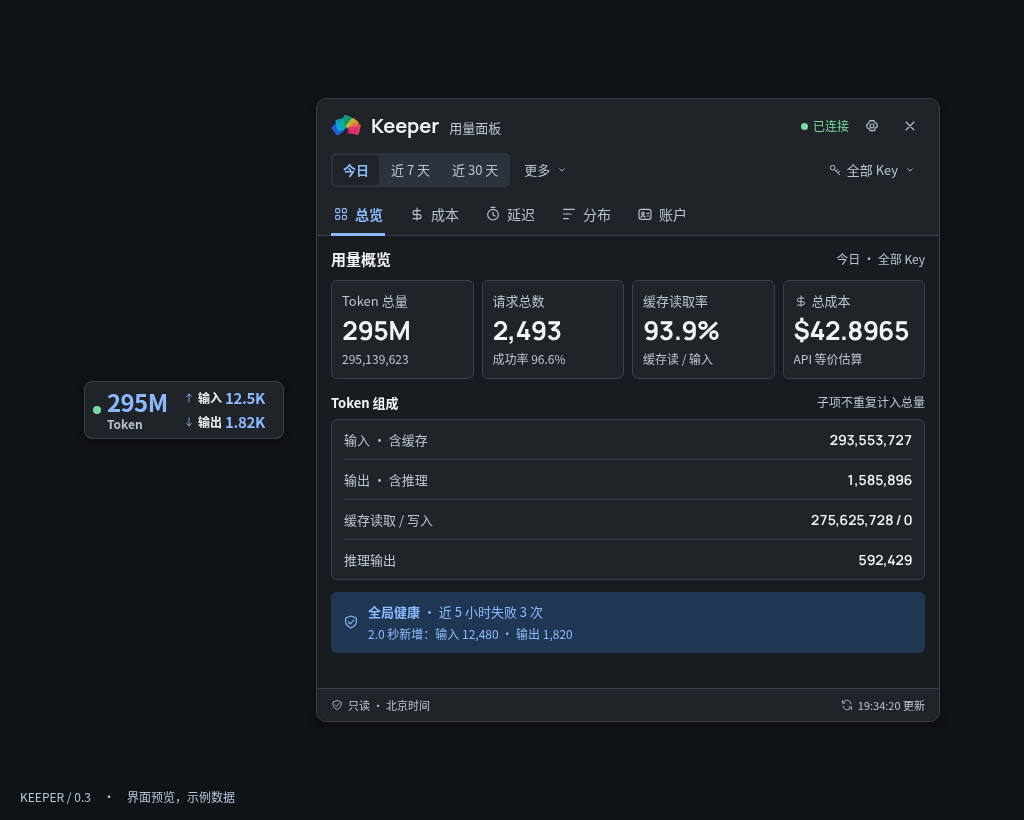
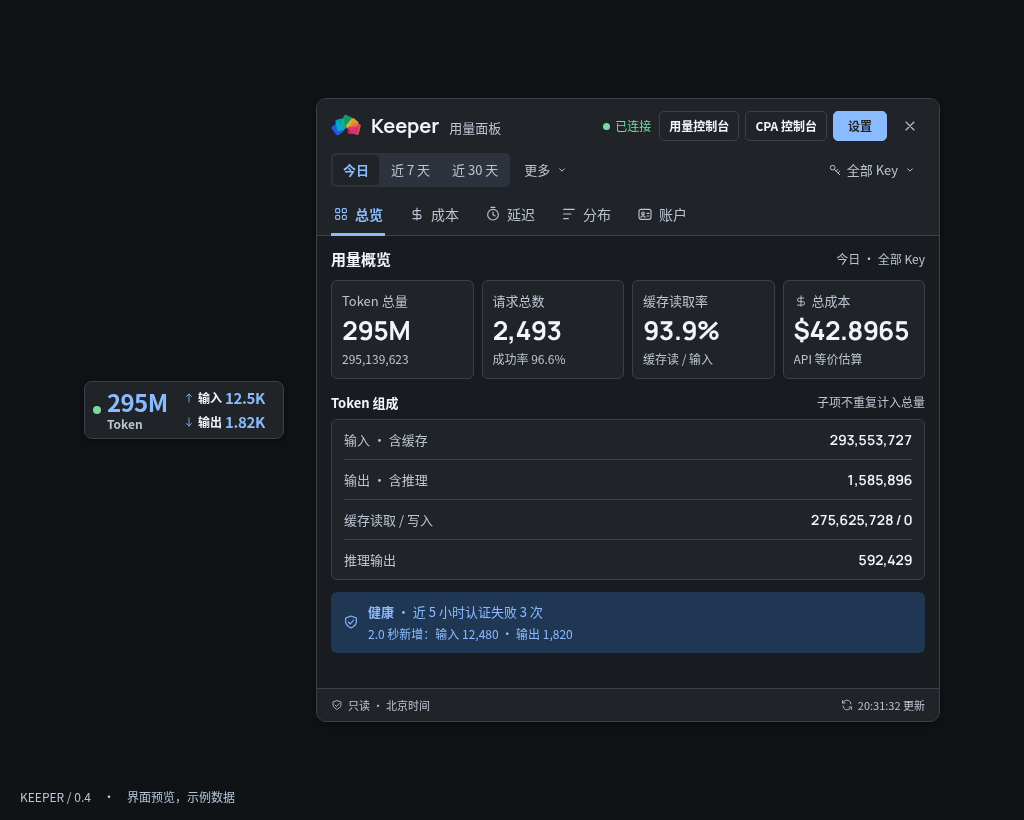
新增用量与CPA控制台入口并强化设置按钮

Changed region(s): [[0.5938, 0.122, 0.875, 0.1829], [0.3438, 0.7317, 0.5, 0.7622]]

diff --git a/src/main.js b/src/main.js
@@ -137,7 +137,7 @@ function widget() {
   return `<div class="widget-wrap"><div class="widget" id="widget" role="button" tabindex="0" aria-label="Keeper 用量，悬停或点击查看详情，拖动移动"><span class="widget-health neutral" id="health" role="img" aria-label="未连接" title="未连接"><i class="dot"></i></span><div class="widget-total"><strong class="widget-number num" id="today-total">—</strong><span class="widget-unit">Token</span></div><div class="widget-flows"><div class="flow-row">${icon("output")}<span>输入</span><strong class="num" id="delta-input">—</strong></div><div class="flow-row">${icon("input")}<span>输出</span><strong class="num" id="delta-output">—</strong></div></div></div></div>`;
 }
 function panel() {
-  return `<div class="window-pad"><main class="panel" aria-label="Keeper 用量详情"><header class="panel-header"><div class="brand-row"><div class="logo">${icon("logo")}</div><div class="brand-title">Keeper <span class="brand-subtitle">用量面板</span></div><div class="spacer"></div><div id="connection" class="connection neutral"><i class="dot"></i>未连接</div>${button("settings", "连接设置")}${button("close-detail", "收起面板")}</div><div id="filters"></div><nav class="tabs" aria-label="指标分类">${availableTabs()
+  return `<div class="window-pad"><main class="panel" aria-label="Keeper 用量详情"><header class="panel-header"><div class="brand-row"><div class="logo">${icon("logo")}</div><div class="brand-title">Keeper <span class="brand-subtitle">用量面板</span></div><div class="spacer"></div><div id="connection" class="connection neutral"><i class="dot"></i>未连接</div><div class="header-actions"><button class="console-button" data-console="usage" title="在默认浏览器打开配置的 Keeper 地址">用量控制台</button><button class="console-button" data-console="cpa" id="cpa-console" disabled title="连接后获取 CPA 地址">CPA 控制台</button><button class="settings-button" data-action="settings">设置</button></div>${button("close-detail", "收起面板")}</div><div id="filters"></div><nav class="tabs" aria-label="指标分类">${availableTabs()
     .map(
       ([id, label, i]) =>
         `<button class="tab ${state.tab === id ? "active" : ""}" data-tab="${id}">${icon(i)}${label}</button>`,
@@ -658,6 +658,23 @@ root.innerHTML = preview
 document.addEventListener("click", async (event) => {
   const b = event.target.closest("button");
   if (!b) return;
+  if (b.dataset.console) {
+    b.disabled = true;
+    try {
+      await api.call("open_console", { target: b.dataset.console });
+      $("#console-error")?.remove();
+    } catch (error) {
+      $("#console-error")?.remove();
+      $("#content").insertAdjacentHTML(
+        "afterbegin",
+        `<div class="note" id="console-error" role="alert">${e(String(error))}</div>`,
+      );
+    } finally {
+      b.disabled =
+        b.dataset.console === "cpa" && state.access?.role !== "admin";
+    }
+    return;
+  }
   if (b.dataset.action) {
     const name = b.dataset.action;
     if (name === "refresh") {
@@ -876,6 +893,13 @@ function applyAccess(access) {
           `<button class="tab ${state.tab === id ? "active" : ""}" data-tab="${id}">${icon(i)}${label}</button>`,
       )
       .join("");
+  const cpa = $("#cpa-console");
+  if (cpa) {
+    cpa.disabled = access.role !== "admin";
+    cpa.title = cpa.disabled
+      ? "Keeper 仅向管理员提供 CPA 控制台地址"
+      : "从 Keeper 获取地址，在默认浏览器打开 CPA 控制台";
+  }
   renderFilters();
   if (changed && $("#content")) {
     $("#content").innerHTML = "";
@@ -916,6 +940,7 @@ await api.on("configured", async ({ settings: s, revision }) => {
   if (windowName !== "settings") {
     if ($("#content")) $("#content").innerHTML = "";
     if ($(".tabs")) $(".tabs").innerHTML = "";
+    if ($("#cpa-console")) $("#cpa-console").disabled = true;
     try {
       await refreshAccess();
     } catch (error) {

diff --git a/src/style.css b/src/style.css
@@ -1111,3 +1111,49 @@ summary::-webkit-details-marker {
   font: inherit;
   font-size: 13px;
 }
+
+.header-actions {
+  display: flex;
+  align-items: center;
+  gap: 6px;
+  flex-shrink: 0;
+}
+.console-button,
+.settings-button {
+  height: 30px;
+  padding: 0 9px;
+  border: 1px solid var(--line);
+  border-radius: 5px;
+  white-space: nowrap;
+  font-size: 12px;
+  font-weight: 600;
+}
+.console-button {
+  color: var(--ink);
+  background: var(--paper);
+}
+.console-button:hover:not(:disabled) {
+  border-color: var(--accent);
+  color: var(--accent);
+  background: var(--accent-soft);
+}
+.console-button:disabled {
+  opacity: 0.5;
+}
+.settings-button {
+  min-width: 54px;
+  background: var(--accent);
+  border-color: var(--accent);
+  color: var(--paper);
+}
+.settings-button:hover {
+  filter: brightness(1.12);
+}
+@media (max-width: 600px) {
+  .brand-subtitle {
+    display: none;
+  }
+  .panel:not(.settings) .brand-row {
+    gap: 6px;
+  }
+}

diff --git a/src/preview.js b/src/preview.js
@@ -115,6 +115,7 @@ export function createPreview(search) {
     },
     call: async (command, args = {}) => {
       window.__previewCalls.push({ command, args });
+      if (command === "open_console") return;
       if (command === "get_access") return structuredClone(access);
       if (command === "set_scope") {
         if (viewer) throw "sk 登录不能切换 Key owner";

diff --git a/crates/keeper-core/src/lib.rs b/crates/keeper-core/src/lib.rs
@@ -123,6 +123,47 @@ pub fn validate_endpoint(endpoint: &str, allow_http: bool) -> Result<Url, String
     url.set_path(&format!("{}/", url.path().trim_end_matches('/')));
     Ok(url)
 }
+pub fn browser_url(value: &str) -> Result<Url, String> {
+    let url = Url::parse(value).map_err(|_| "控制台地址无效")?;
+    if !matches!(url.scheme(), "http" | "https")
+        || url.host_str().is_none()
+        || !url.username().is_empty()
+        || url.password().is_some()
+    {
+        return Err("控制台链接仅支持不含登录凭据的 HTTP / HTTPS 地址".into());
+    }
+    Ok(url)
+}
+// Same public URL and management.html convention as Keeper's UsagePage.
+pub fn cpa_console_url(base: &Url, configured: Option<&str>) -> Result<String, String> {
+    let origin = base.origin().ascii_serialization();
+    let raw = configured.unwrap_or(&origin).trim();
+    if raw.is_empty() {
+        return Err("Keeper 未提供 CPA 控制台地址".into());
+    }
+    let prepared = if raw.starts_with('/') {
+        Url::parse(&origin)
+            .unwrap()
+            .join(raw)
+            .map_err(|_| "CPA 地址无效")?
+            .to_string()
+    } else if raw.contains("://") {
+        raw.to_string()
+    } else {
+        format!("{}://{}", base.scheme(), raw)
+    };
+    let mut url = browser_url(&prepared)?;
+    if !url.path().ends_with("/management.html") {
+        url.set_path(&format!(
+            "{}/management.html",
+            url.path().trim_end_matches('/')
+        ));
+        url.set_query(None);
+        url.set_fragment(None);
+    }
+    Ok(url.to_string())
+}
+
 #[derive(Default, Clone, Copy, PartialEq, Eq, Deserialize, Serialize)]
 #[serde(rename_all = "snake_case")]
 pub enum AuthMode {
@@ -295,6 +336,13 @@ impl Keeper {
     pub async fn access(&self) -> Result<Value, String> {
         self.login().await?;
         Ok(self.session.lock().await.clone())
+    }
+    pub async fn console_url(&self) -> Result<String, String> {
+        if self.is_viewer() {
+            return Err("Keeper 仅向管理员提供 CPA 控制台地址".into());
+        }
+        let status = self.cached("status", &[], 60).await?;
+        cpa_console_url(&self.base, status["cpa_public_url"].as_str())
     }
     pub async fn logout(&self) -> Result<(), String> {
         self.request("auth/logout", &[], Some(json!({}))).await?;

diff --git a/crates/keeper-core/tests/client.rs b/crates/keeper-core/tests/client.rs
@@ -407,3 +407,52 @@ async fn sk_midnight_bridge_uses_own_activity_totals() {
         requests[5].contains("key-activity?range=custom&unit=day&start=2026-08-26&end=2026-08-26")
     );
 }
+
+#[test]
+fn cpa_console_matches_keeper_public_url_rules_and_rejects_unsafe_links() {
+    let base = validate_endpoint("https://keeper.example/usage", false).unwrap();
+    for (raw, expected) in [
+        (None, "https://keeper.example/management.html"),
+        (
+            Some("https://cpa.example"),
+            "https://cpa.example/management.html",
+        ),
+        (Some("/cpa/"), "https://keeper.example/cpa/management.html"),
+        (
+            Some("cpa.example:8317/"),
+            "https://cpa.example:8317/management.html",
+        ),
+        (
+            Some("https://cpa.example/cpa/management.html"),
+            "https://cpa.example/cpa/management.html",
+        ),
+    ] {
+        assert_eq!(keeper_core::cpa_console_url(&base, raw).unwrap(), expected);
+    }
+    for raw in [
+        "javascript://alert(1)",
+        "file:///secret",
+        "ftp://cpa.example",
+        "https://user:secret@cpa.example",
+        "",
+    ] {
+        assert!(keeper_core::cpa_console_url(&base, Some(raw)).is_err());
+    }
+}
+#[tokio::test]
+async fn cpa_console_uses_admin_status_only_and_sk_never_requests_it() {
+    let (url, requests, task) = server(vec![
+        (204, json!(null)),
+        (200, json!({"cpa_public_url":"https://cpa.example/cpa/"})),
+    ])
+    .await;
+    let admin = Keeper::new(&url, "", false).unwrap();
+    assert_eq!(
+        admin.console_url().await.unwrap(),
+        "https://cpa.example/cpa/management.html"
+    );
+    task.await.unwrap();
+    assert!(requests.lock().await[2].starts_with("GET /usage/api/v1/status "));
+    let viewer = Keeper::connect(&url, "sk-fixture", false, "", AuthMode::ApiKey).unwrap();
+    assert!(viewer.console_url().await.unwrap_err().contains("管理员"));
+}

diff --git a/src-tauri/src/main.rs b/src-tauri/src/main.rs
@@ -219,6 +219,33 @@ async fn get_view(
     result
 }
 #[tauri::command]
+async fn open_console(
+    window: WebviewWindow,
+    state: State<'_, AppState>,
+    target: String,
+) -> Result<(), String> {
+    if window.label() != "detail" {
+        return Err("请通过面板打开控制台".into());
+    }
+    if target == "usage" {
+        let endpoint = state.settings.lock().unwrap().endpoint.clone();
+        let url = keeper_core::browser_url(&endpoint)?;
+        return windows::open_browser(url.as_str());
+    }
+    if target != "cpa" {
+        return Err("未知控制台".into());
+    }
+    let client = state.client.read().await.clone().ok_or("请先连接 Keeper")?;
+    let url = client.console_url().await?;
+    let current = state.client.read().await;
+    if !current.as_ref().is_some_and(|c| Arc::ptr_eq(c, &client)) {
+        return Err("连接已更新，请重新打开控制台".into());
+    }
+    let url = keeper_core::browser_url(&url)?;
+    // Open the user's browser; never forward the in-app cookie, password or sk.
+    windows::open_browser(url.as_str())
+}
+#[tauri::command]
 fn window_action(
     app: tauri::AppHandle,
     window: WebviewWindow,
@@ -301,6 +328,7 @@ fn main() {
             get_view,
             get_access,
             set_scope,
+            open_console,
             window_action
         ])
         .on_window_event(|window, event| {

diff --git a/src-tauri/src/windows.rs b/src-tauri/src/windows.rs
@@ -392,3 +392,39 @@ pub fn track(app: tauri::AppHandle) {
         }
     });
 }
+
+pub fn open_browser(url: &str) -> Result<(), String> {
+    #[cfg(windows)]
+    unsafe {
+        use windows_sys::Win32::System::Com::{
+            CoInitializeEx, CoUninitialize, COINIT_APARTMENTTHREADED, COINIT_DISABLE_OLE1DDE,
+        };
+        let initialized = CoInitializeEx(
+            std::ptr::null(),
+            (COINIT_APARTMENTTHREADED | COINIT_DISABLE_OLE1DDE) as _,
+        );
+        if initialized < 0 {
+            return Err("无法初始化 Windows 浏览器打开组件".into());
+        }
+        let verb: Vec<u16> = "open\0".encode_utf16().collect();
+        let target: Vec<u16> = url.encode_utf16().chain(Some(0)).collect();
+        let result = windows_sys::Win32::UI::Shell::ShellExecuteW(
+            std::ptr::null_mut(),
+            verb.as_ptr(),
+            target.as_ptr(),
+            std::ptr::null(),
+            std::ptr::null(),
+            windows_sys::Win32::UI::WindowsAndMessaging::SW_SHOWNORMAL,
+        );
+        CoUninitialize();
+        if result as isize > 32 {
+            return Ok(());
+        }
+        return Err("无法打开默认浏览器，请检查 Windows 默认应用设置".into());
+    }
+    #[cfg(not(windows))]
+    {
+        let _ = url;
+        Err("请在 Windows 桌面程序中打开控制台".into())
+    }
+}

diff --git a/VERIFICATION.md b/VERIFICATION.md
@@ -1,4 +1,4 @@
-# 验证记录 · 0.4.1
+# 验证记录 · 0.4.2
 
 ## 依据与边界
 
@@ -11,12 +11,18 @@
 - 9 项 JavaScript 单元检查已通过，覆盖格式及 16 秒增量暂留。
 - 前端生产构建已通过，生产包不含预览样例 / 测试入口。
 - Chromium 已验证 sk 只读页签 / 日期、无管理员请求；管理员 Key owner 同步悬浮块、重开保留选择、丢弃旧范围采样、点击入口和普通鼠标样式；新增登录方式与密码输入全选。
-- Rust 核心 17 项测试已通过，涵盖真实本地 HTTP / SOCKS 协议、登录后角色校验、sk 请求路由白名单、跨日增量、Key 切换基线和近五小时请求健康、无效凭据不循环登录。
+- Rust 核心 19 项测试已通过，涵盖真实本地 HTTP / SOCKS 协议、登录后角色校验、sk 请求路由白名单、跨日增量、Key 切换基线和近五小时请求健康、无效凭据不循环登录。
 - 本轮浏览器回归覆盖原有主题 / 指标页 / 账户页 / 溢出 / 像素比例及 16 秒暂留；测试后关闭浏览器与临时服务器。
-- Windows 编译、原生 DPAPI / 悬停状态测试及 Release 发布结果将在完成后补充。
+- Windows 0.4.2 编译、原生 DPAPI / 悬停状态测试及 Release 发布结果将在完成后补充。
 
 ## 窗口补修与版本
 
 0.4.0 推送后在继续追踪依赖和窗口状态时，确认原有 `settings.is_visible()` 门控会让仍打开的后台设置窗阻止悬停。0.4.1 改为只按设置窗是否处于前台暂停自动展开，显式点击不经过此门控。取消设置窗置顶、重复打开保留输入、原生显隐统一仍保留。
 
 Tao 0.35.3 的 `is_visible()` 本身调用 `IsWindowVisible`，不能把长期悬停问题直接归因于该 getter 的缓存。内部显隐 flags 与原生 ShowWindow 混用是另一类状态风险；本轮统一浮窗显隐方式，但 Windows 长时故障是否完全消除仍需实机验证。
+
+## 0.4.2 控制台入口
+
+按 Keeper 1.14.8 的 `router.go` 与 `UsagePage.tsx` 追踪 CPA 链接：管理员 `status.cpa_public_url` + `management.html`；字段缺失使用当前源。sk 不开放 status，因此禁用 CPA 按钮且 Rust 同样拒绝此调用。新增协议测试确认管理员路由及 sk 不发请求，纯函数测试覆盖域名 / 端口 / 子路径和不安全链接拒绝。外部链接只允许 HTTP / HTTPS，通过 Windows 默认浏览器打开，不传递桌面登录凭据。
+
+Chromium 顶栏检查确认两个入口的调用目标、sk 下 CPA 禁用、连接状态和按钮顺序，以及实际 640px 下无横向溢出；浅深主题截图已更新。

diff --git a/README.md b/README.md
@@ -1,4 +1,4 @@
-# Keeper UsagePanel 0.4.1
+# Keeper UsagePanel 0.4.2
 
 面向 Windows 10 / 11 x64 的 Keeper 置顶悬浮球。Tauri 2 + Rust + HTML/CSS，直接连接既有 Keeper，不安装远程适配服务，不启动本地 HTTP 服务。
 
@@ -8,7 +8,7 @@
 
 [Windows Release 下载入口](https://github.com/wlyzqm/Keeper-UsagePanel/releases/latest)。本轮构建及发布状态见 [验证记录](VERIFICATION.md)。正式发布包含安装 EXE、独立便携 EXE、便携 ZIP 和 SHA256 校验文件。
 
-推荐运行 `KeeperUsagePanel_0.4.1_x64-setup.exe` 安装包。缺少 WebView2 时，安装器联网下载 Microsoft 运行时。已有 WebView2 的电脑也可直接运行便携版 `KeeperUsagePanel.exe`，不需要 .NET。
+推荐运行 `KeeperUsagePanel_0.4.2_x64-setup.exe` 安装包。缺少 WebView2 时，安装器联网下载 Microsoft 运行时。已有 WebView2 的电脑也可直接运行便携版 `KeeperUsagePanel.exe`，不需要 .NET。
 
 升级前请先退出旧版。安装包和程序未做代码签名，可使用交付目录中的 `SHA256SUMS.txt` 核对文件。
 
@@ -29,6 +29,15 @@
 - 管理员通过 `usage/api-keys/options` 的别名 / 脱敏标签选择 Key owner。共享范围由 Rust 管理；切换即清空旧采样和 16 秒暂留，旧范围返回不能覆盖新范围，下一次成功采样重新建立基线。
 - 权限在 Rust 请求层再次限制，不能通过隐藏页签或 IPC 参数访问管理员指标。sk 不接受其他 Key ID；Keeper 关闭认证时 sk 模式拒绝意外返回的管理员身份。
 - Keeper 对 sk 的 overview / activity 各限每秒一次；面板和悬浮块共享节流，忙碌时使用实际采样间隔。无效凭据停止自动登录重试，修改设置后重连。
+
+## 控制台入口
+
+浮窗标题栏按「连接状态 → 用量控制台 → CPA 控制台 → 设置」排列。设置改为醒目的长条文字按钮。
+
+- 用量控制台在 Windows 默认浏览器打开设置中提供的 Keeper 地址。
+- 管理员点击 CPA 控制台时读取 `/api/v1/status.cpa_public_url`，按 Keeper 的规则补上 `management.html`，支持完整地址、子路径与裸域名。Keeper 未设置该字段时，与 Keeper 网页一样使用当前源的 `/management.html`。
+- `status` 是管理员接口；sk 模式保留禁用的 CPA 按钮并解释权限限制，不请求管理接口或猜测另一个 CPA 域名。
+- 只允许 HTTP / HTTPS 链接，不传递应用内的密码、sk 或会话 Cookie；浏览器与桌面应用各自登录。
 
 ## 代理与字体
 

diff --git a/WINDOWS-ACCEPTANCE.md b/WINDOWS-ACCEPTANCE.md
@@ -1,6 +1,6 @@
-# Windows 10 / 11 验收清单 · 0.4.1
+# Windows 10 / 11 验收清单 · 0.4.2
 
-前端 Chromium 验收不等于 Windows 原生窗口行为已验证。构建与自动化测试结果见 VERIFICATION.md；以下交互项目请使用 0.4.1 的 EXE 在 Windows 10 / 11 上验收。
+前端 Chromium 验收不等于 Windows 原生窗口行为已验证。构建与自动化测试结果见 VERIFICATION.md；以下交互项目请使用 0.4.2 的 EXE 在 Windows 10 / 11 上验收。
 
 1. 首次启动：无预置地址；填写 Keeper 地址，分别用管理员密码与有效 sk 登录；保存前成功验证；关闭后再启动可恢复。旧版配置能读取。
 2. 图标：窗口、托盘、EXE 使用彩色 Keeper 图标；默认浅色，深色切换并重启保持。
@@ -19,5 +19,7 @@
 14. sk 模式只有自身总览及日期筛选，无 Key owner 切换器和管理员页签；对照 Keeper sk 页面总量 / 成本。错误或停用 sk 不保存；从管理员切换 sk 时必须重新输入对应凭据，不误用旧密码。关闭记住凭据后重启需要重新输入。
 15. 同时验证悬停和点击展开；点击不拖动时鼠标保持普通样式。连续运行、隐藏 / 显示多次、锁屏 / 睡眠恢复后仍可展开；没有「北京时间今日」系统悬停提示。
 16. 设置窗退到后台或最小化后，悬停仍可展开详情；点击入口不受设置窗影响。设置窗打开后切换到浏览器 / 记事本，复制密码或 sk 再返回粘贴；输入过程中详情不弹出抢焦点；重复打开设置不得清空正在填写的内容。保存成功不会把已隐藏的其他应用拉到前台。
+
+17. 顶栏顺序为连接状态、用量控制台、CPA 控制台、文字设置按钮。用量控制台打开配置地址；管理员 CPA 入口遵循 Keeper 的公开地址（含子路径），均在默认浏览器打开，不替换浮窗页面、不自动传递密码或 sk。sk 下 CPA 按钮禁用并提示权限原因。无默认浏览器或无效 CPA 地址时显示可读错误。
 
 反馈时请附系统版本、缩放比例、具体操作和截图。不要发送密码、代理凭据或完整 API Key。
